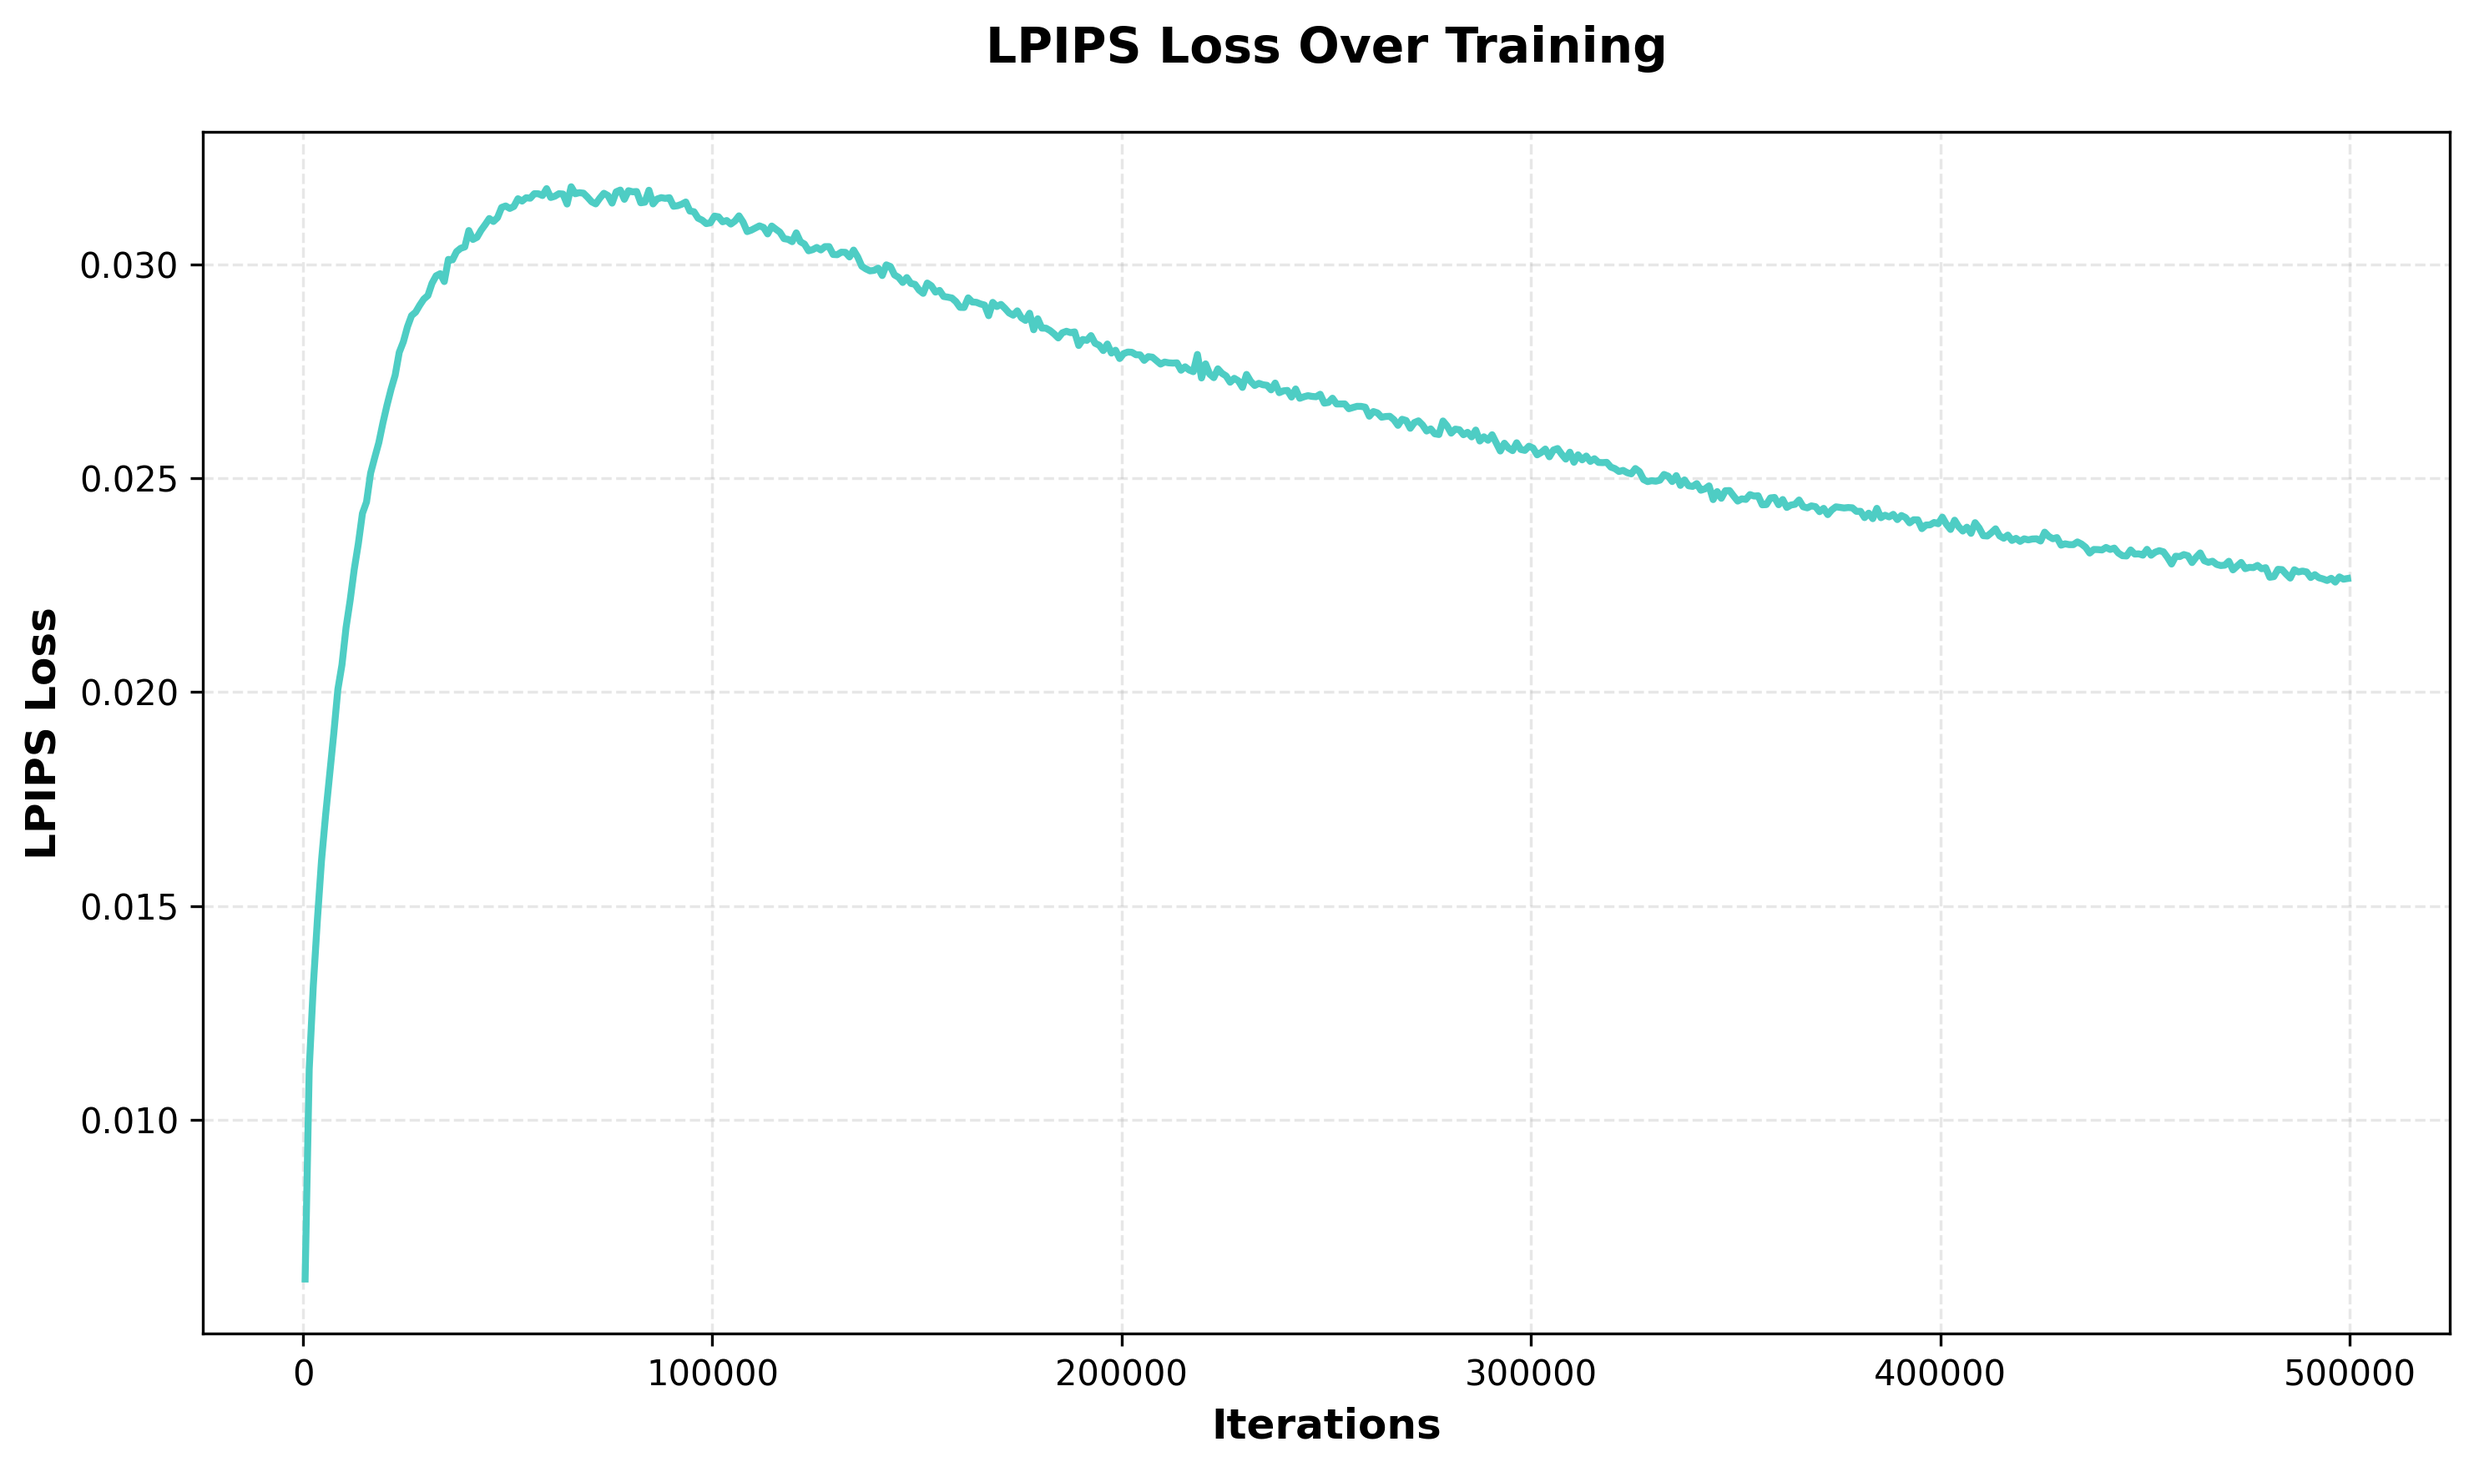
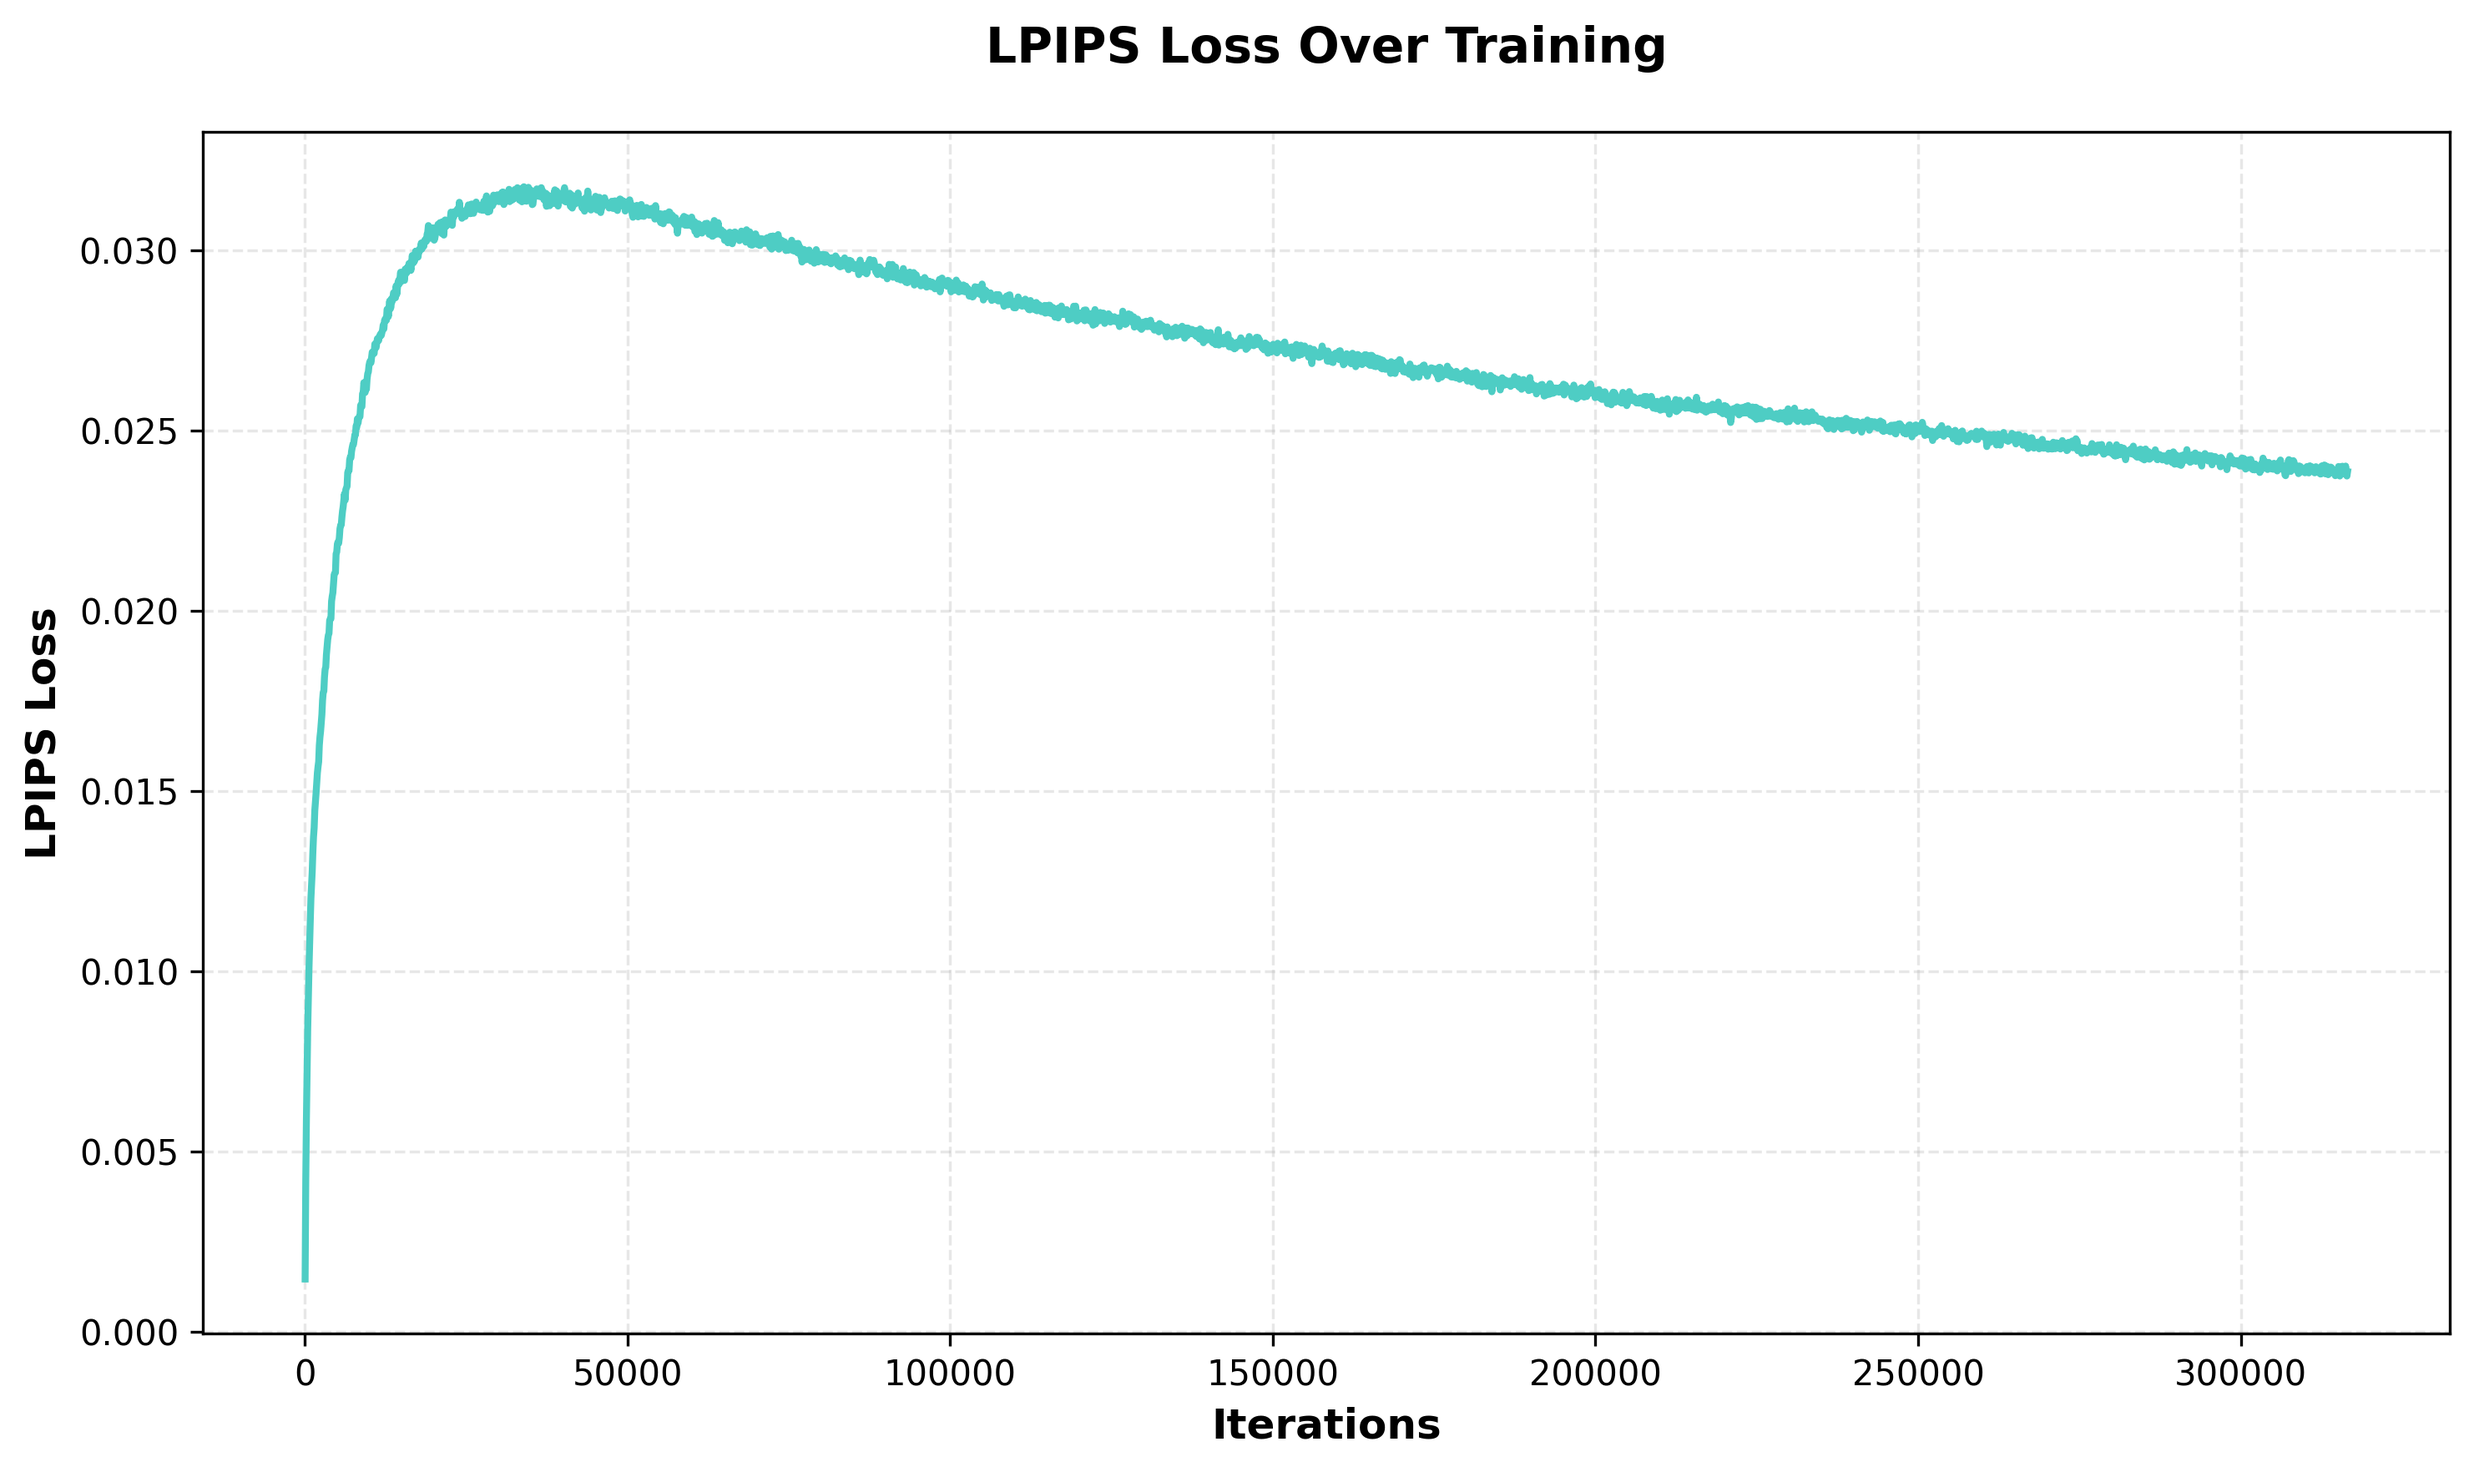
mod

diff --git a/plot_loss.py b/plot_loss.py
@@ -2,6 +2,7 @@ import re
 import numpy as np
 import matplotlib.pyplot as plt
 import os
+import argparse
 from pathlib import Path
 
 def parse_log_file(log_file):
@@ -68,7 +69,7 @@ def parse_log_file(log_file):
     
     return iterations, key_loss, lpips_loss, total_loss, match_rate
 
-def average_metrics(iterations, metrics, window_size=1000):
+def average_metrics(iterations, metrics, window_size=100):
     # Convert to numpy arrays for easier manipulation
     iterations = np.array(iterations)
     metrics = np.array(metrics)
@@ -121,12 +122,18 @@ def create_plot(iterations, metrics, title, ylabel, color, save_path):
     print(f"Saved plot to {save_path}")
 
 def main():
+    # Set up argument parser
+    parser = argparse.ArgumentParser(description='Plot training metrics from a log file.')
+    parser.add_argument('--log_file', type=str, default='train_rank0.log',
+                        help='Path to the log file (default: train_rank0.log)')
+    args = parser.parse_args()
+    
     # Create plots directory if it doesn't exist
     plots_dir = Path('plots')
     plots_dir.mkdir(exist_ok=True)
     
     # Parse log file
-    iterations, key_loss, lpips_loss, total_loss, match_rate = parse_log_file('train_rank0.log')
+    iterations, key_loss, lpips_loss, total_loss, match_rate = parse_log_file(args.log_file)
     
     if len(iterations) == 0:
         print("Error: No data found in the log file. Please check the file path and format.")
